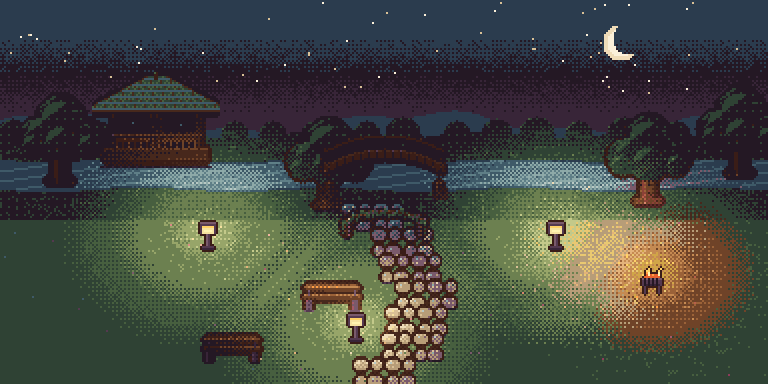
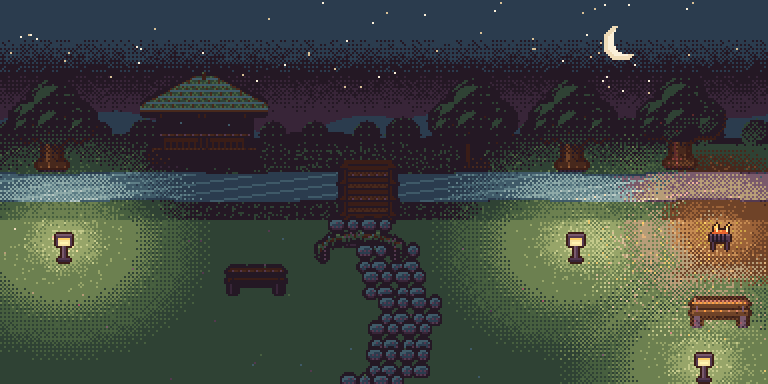
Poprawki ukladu scen: most przez strumien, sad i pole, brak nakladania
Claude-Session: https://claude.ai/code/session_0135h6bTXzjAgeLjpLoaFjGV

diff --git a/tools/art/world/park_bg.py b/tools/art/world/park_bg.py
@@ -12,8 +12,11 @@ from garden import blob, MOSS
 from garden_bg import SKY, _break
 
 W, HT, HORIZON = 384, 192, 70
-LAMPS = [(96, HORIZON + 40), (270, HORIZON + 40), (170, HORIZON + 86)]     # lewy-gorny rog lamp_post 16x16
-BRAZIERS = [(318, HORIZON + 62)]
+STREAM = (HORIZON + 16, HORIZON + 30)                                       # gorny i dolny brzeg wody
+LAMPS = [(24, HORIZON + 46), (280, HORIZON + 46), (344, HORIZON + 106)]     # lewy-gorny rog lamp_post 16x16
+BRAZIERS = [(352, HORIZON + 40)]
+BRIDGE = (168, STREAM[0] - 6)                                                 # poklad przecina strumien
+PLACED = []
 
 
 def _img(rel):
@@ -70,35 +73,36 @@ def world(extra=()):
             if r.random() < .09: c = "moss.2" if c == "moss.1" else "moss.3"
             H.put(im, x, y, c)
     H.break_checkers(im)
-    # strumien
-    for y in range(HORIZON + 10, HORIZON + 26):
+    for y in range(STREAM[0], STREAM[1] + 1):                                  # strumien
         for x in range(W):
             off = int(2 * math.sin(x / 15.0))
-            if HORIZON + 10 + off <= y <= HORIZON + 24 + off:
-                edge = y in (HORIZON + 10 + off, HORIZON + 24 + off)
+            if STREAM[0] + off <= y <= STREAM[1] + off:
+                edge = y in (STREAM[0] + off, STREAM[1] + off)
                 H.put(im, x, y, "dusk.1" if edge else ("dusk.3" if (x // 7 + y) % 5 else "dusk.4"))
-    # altana na dalekim brzegu, drzewa
-    im.alpha_composite(_img("park/gazebo.png"), (46, HORIZON - 34))
-    for x, y in ((6, HORIZON - 24), (346, HORIZON - 28), (300, HORIZON - 14), (140, HORIZON - 12)):
-        im.alpha_composite(_img("park/tree_big.png"), (x, y))
-    im.alpha_composite(_img("park/bridge_wood.png"), (160, HORIZON - 2))
-    # sciezka z kamieni od mostu w dol
-    pc = _img("park/path_cobble.png")
-    for k, y in enumerate(range(HORIZON + 30, HT - 4, 13)):
-        x = 186 + int(24 * math.sin(k / 2.1))
+    PLACED.clear()
+    def put(name, x, y, rel=None):
+        i = _img(rel or f"park/{name}.png"); PLACED.append((name, x, y, i)); im.alpha_composite(i, (x, y))
+    bank = STREAM[0] - 2                                                       # drzewa i altana stoja na dalekim brzegu
+    put("gazebo", 70, bank - 48)
+    for x in (2, 212, 262, 316): put("tree_big", x, bank - 48 + (x % 5))
+    put("bridge_wood", *BRIDGE)
+    pc = _img("park/path_cobble.png")                                          # sciezka od mostu w dol
+    for k, y in enumerate(range(STREAM[1] + 8, HT - 4, 13)):
+        x = 180 + int(22 * math.sin(k / 2.1))
         for dx in (-8, 8): im.alpha_composite(pc, (x + dx - 8 + (k % 2) * 4, y))
-    for name, x, y in (("flower_arch", 168, HORIZON + 34), ("bench_park", 150, HORIZON + 70), ("bench_park", 100, HORIZON + 96)):
-        im.alpha_composite(_img(f"park/{name}.png"), (x, y))
+    put("flower_arch", 156, STREAM[1] + 16)
+    put("bench_park", 112, HORIZON + 62); put("bench_park", 344, HORIZON + 78)
     for _ in range(48):                                                         # drobne kwiaty
-        x, y = r.randint(0, W - 1), r.randint(HORIZON + 40, HT - 3)
+        x, y = r.randint(0, W - 1), r.randint(STREAM[1] + 8, HT - 3)
         H.put(im, x, y, r.choice(["rose.1", "hay.2", "linen.2"])); H.put(im, x, y + 1, "moss.3")
     for rel, x, y in extra:
-        im.alpha_composite(_img(rel), (x, y))
+        put(Path(rel).stem, x, y, rel)
     return im
 
 
 def build(tod, extra=(), pigs=()):
     wim = world(extra)
+    for n, (x, y) in [("lamp_post", p) for p in LAMPS] + [("brazier", p) for p in BRAZIERS]: PLACED.append((n, x, y, _img("park/lamp_post.png")))
     lights = []
     if tod in ("evening", "night"):
         lights = [("lamp_street", x + 8, y + 5) for x, y in LAMPS] + [("brazier", x + 8, y + 4) for x, y in BRAZIERS]

diff --git a/tools/art/world/farm_bg.py b/tools/art/world/farm_bg.py
@@ -51,19 +51,21 @@ def world():
             if r.random() < .09: c = "moss.2" if c == "moss.1" else "moss.3"
             H.put(im, x, y, c)
     H.break_checkers(im)
-    for yy in range(HORIZON + 22, HT - 6, 1):                                     # pole: ziemia pod grzadki
-        pass
-    soil = _img("farm/farm.png").crop((160, 64, 176, 80))
-    for ty in range(HORIZON + 22, HT - 8, 16):
-        for tx in range(24, 232, 16):
-            im.alpha_composite(soil, (tx, ty))
+    meta = json.loads((H.WORLD_DIR / "farm/farm.json").read_text(encoding="utf-8"))["frames"]
+    sheet = _img("farm/farm.png")
+    def fr(name, i):
+        x, y, w, h = meta[name][i]; return sheet.crop((x, y, x + w, y + h))
     fence = _img("farm/fence_farm.png")
     for x in range(0, W, 16): im.alpha_composite(fence, (x, HORIZON + 6))
     im.alpha_composite(_img("farm/barn_hay.png"), (176, HORIZON - 34))
-    t = _img("garden/tree_small.png") if (H.WORLD_DIR / "garden/tree_small.png").exists() else None
-    from garden import tree_small
-    for x, y in ((6, HORIZON - 22), (36, HORIZON - 16), (140, HORIZON - 18)):
-        im.alpha_composite(tree_small(), (x, y))
+    # sad: dwa rzedy drzewek owocowych na trawie (lewa czesc), z przerwa na sciezke
+    for row, y in enumerate((HORIZON + 22, HORIZON + 54)):
+        for k, name in enumerate(("tree_apple", "tree_strawberry", "tree_apple", "tree_strawberry") if row == 0 else ("tree_strawberry", "tree_apple", "tree_strawberry", "tree_apple")):
+            im.alpha_composite(fr(name, 2), (12 + k * 24, y))
+    # pole: rzedy grzadek z przerwami na trawe (prawa czesc)
+    for row, ty in enumerate((HORIZON + 24, HORIZON + 46, HORIZON + 68)):
+        for tx in range(124, 244, 16):
+            im.alpha_composite(fr("bed_wet" if (row + tx // 16) % 3 == 0 else "bed_empty", 0), (tx, ty))
     for _ in range(30):
         x, y = r.randint(0, W - 1), r.randint(HORIZON + 24, HT - 3)
         if im.getpixel((x, y))[:3] in H.RAMPS["moss"]: H.put(im, x, y, r.choice(["hay.2", "linen.2"]))

diff --git a/tools/art/world/park_a.py b/tools/art/world/park_a.py
@@ -97,19 +97,17 @@ A1 = {"tree_big": tree_big, "gazebo": gazebo, "flower_arch": flower_arch, "pond_
 
 
 def bridge_wood():
-    im = H.canvas(64, 32)
-    for x in range(2, 62):
-        top = 14 - int(8 * (1 - ((x - 32) / 30.0) ** 2))
-        H.vline(im, x, top, top + 3, "wood.2" if x % 4 else "wood.1")
-        H.put(im, x, top, "wood.3"); H.put(im, x, top + 4, "wood.0")
-    for x in range(2, 62, 6):
-        top = 14 - int(8 * (1 - ((x - 32) / 30.0) ** 2))
-        H.vline(im, x, top - 7, top - 1, "wood.1"); H.put(im, x, top - 8, "wood.3")
-    for x in range(2, 62):
-        top = 14 - int(8 * (1 - ((x - 32) / 30.0) ** 2))
-        H.put(im, x, top - 7, "wood.2"); H.put(im, x, top - 6, "wood.1")
-    for x in (3, 58): H.rrect(im, x, 22, x + 2, 30, 1, WD)                            # podpory
-    H.rect(im, 0, 28, 5, 31, "wood.1"); H.rect(im, 58, 28, 63, 31, "wood.1")
+    """32x32: mostek przez strumien (poprzecznie): poklad z desek, po bokach porecze z slupkami, rozszerzone wejscia."""
+    im = H.canvas(32, 32)
+    H.rect(im, 4, 0, 27, 3, "wood.2"); H.rect(im, 4, 28, 27, 31, "wood.2")           # wejscia
+    for y in range(2, 30):
+        c = "wood.2" if (y // 3) % 2 else "wood.3"
+        H.hline(im, 6, 25, y, c)
+        if y % 3 == 2: H.hline(im, 6, 25, y, "wood.1")
+    for x in (3, 4, 27, 28):
+        H.vline(im, x, 2, 29, "wood.1" if x in (3, 28) else "wood.2")
+    for y in (2, 10, 18, 26):
+        for x in (2, 27): H.rrect(im, x, y, x + 2, y + 3, 1, WD)
     return H.ground(H.outline(im), spread=1)
 
 

diff --git a/tools/art/world/layout_check.py b/tools/art/world/layout_check.py
@@ -1,0 +1,20 @@
+"""Kontrola ukladu scen: wykrywa nakladanie sie nieprzezroczystych pikseli przedmiotow (poza dozwolonymi parami)."""
+import numpy as np
+
+FLAT = {"path_cobble", "path_stone", "picnic_blanket", "soil", "pond_big"}      # plaskie, moga lezec pod innymi
+
+
+def overlaps(placed, allow=()):
+    """placed: lista (nazwa, x, y, Image RGBA). Zwraca [(a, b, liczba_pikseli)]."""
+    out = []
+    for i, (na, xa, ya, ia) in enumerate(placed):
+        aa = np.array(ia)[:, :, 3] > 0
+        for nb, xb, yb, ib in placed[i + 1:]:
+            if (na in FLAT and nb in FLAT) or na == nb and na in FLAT: continue
+            if {na, nb} in [set(p) for p in allow]: continue
+            ab = np.array(ib)[:, :, 3] > 0
+            x0, y0 = max(xa, xb), max(ya, yb); x1, y1 = min(xa + aa.shape[1], xb + ab.shape[1]), min(ya + aa.shape[0], yb + ab.shape[0])
+            if x1 <= x0 or y1 <= y0: continue
+            n = int((aa[y0 - ya:y1 - ya, x0 - xa:x1 - xa] & ab[y0 - yb:y1 - yb, x0 - xb:x1 - xb]).sum())
+            if n and not (na in FLAT or nb in FLAT): out.append((na, nb, n))
+    return out

diff --git a/tools/art/world/market_bg.py b/tools/art/world/market_bg.py
@@ -46,9 +46,9 @@ def world():
         for x in range(-8 + (k % 2) * 8, W, 16): im.alpha_composite(pc, (x, y))
     H.break_checkers(im)
     for name, x, y in STALLS: im.alpha_composite(_img(f"market/{name}.png"), (x, y))
-    im.alpha_composite(_img("market/order_board.png"), (62, HORIZON + 44))
-    for n, x in (("promo_1", 40), ("promo_2", 158), ("promo_3", 224)): im.alpha_composite(_img(f"market/{n}.png"), (x, HORIZON + 52 + (x % 3) * 6))
-    for n, x in (("poster_1", 4), ("poster_2", 134), ("poster_3", 118)): im.alpha_composite(_img(f"market/{n}.png"), (x, HORIZON + 60 + (x % 2) * 18))
+    im.alpha_composite(_img("market/order_board.png"), (64, HORIZON + 40))
+    for n, x in (("promo_1", 30), ("promo_2", 112), ("promo_3", 196)): im.alpha_composite(_img(f"market/{n}.png"), (x, HORIZON + 68))
+    for n, x in (("poster_2", 163), ("poster_3", 177), ("poster_1", 238)): im.alpha_composite(_img(f"market/{n}.png"), (x, HORIZON + 40))
     return im
 
 

diff --git a/tools/art/world/park_scene.py b/tools/art/world/park_scene.py
@@ -6,10 +6,9 @@ import handart as H
 import park_bg
 from PIL import Image
 
-EXTRA = [("park/fountain.png", 24, 116), ("park/statue_pig.png", 320, 92), ("park/pond_big.png", 226, 128),
-         ("park/picnic_blanket.png", 110, 120), ("park/tunnel_playground.png", 60, 90), ("park/bridge_wood.png", 0, 0)]
-EXTRA = EXTRA[:-1]
-PIGS = [("glen", 150, 124), ("kuki", 204, 134), ("racuch", 250, 126)]
+EXTRA = [("park/fountain.png", 30, 138), ("park/statue_pig.png", 300, 106), ("park/pond_big.png", 252, 146),
+         ("park/picnic_blanket.png", 96, 150), ("park/tunnel_playground.png", 60, 100)]
+PIGS = [("glen", 150, 130), ("kuki", 176, 140), ("racuch", 222, 96)]
 
 
 def build(out):

diff --git a/tools/art/world/garden_bg.py b/tools/art/world/garden_bg.py
@@ -93,7 +93,7 @@ def world(tod):
     # tunel z wierzby, drzewa, krzewy
     im.alpha_composite(home.willow_tunnel(), (24, HORIZON + 8))
     t1, t2 = tree_small(), tree_small()
-    im.alpha_composite(t1, (200, HORIZON - 20)); im.alpha_composite(t2, (234, HORIZON - 14))
+    im.alpha_composite(t1, (196, HORIZON - 30)); im.alpha_composite(t2, (232, HORIZON - 26))
     for name, x, y in (("bush_berry", 80, HORIZON + 14), ("hedge", 185, HORIZON + 14), ("hedge", 201, HORIZON + 14),
                        ("flowerbed_tulip", 8, HORIZON + 50), ("flowerbed_daisy", 200, HORIZON + 62),
                        ("bench_wood", 150, HORIZON + 40), ("bird_bath", 60, HORIZON + 58)):

diff --git a/docs/VISUAL_LOG.md b/docs/VISUAL_LOG.md
@@ -141,3 +141,9 @@ sofa_cosy (bochenek, brick, 4 warianty), fireplace (wył + 4 klatki wł), lamp_m
 - Raport: 161 z 161 ikon miało piksele poza paletą (13301 px). Wszystkie 0-160 sprowadzone do palety legendy (najbliższy kolor, ciemne -> kontur #3a1d17), indeksy bez zmian. Nowe 161-173: candle, bedroom, run, gate, tray, shop, house_plan, storage, swatch, wander, bond, rename, color_lock (wpisy w icons.json). Poza paletą: 0. Generator: tools/art/world/icons_a.py. Przegląd: docs/album/przebudowa/b10_ikony.png.
 - Uwaga: przemalowanie 0-160 jest automatyczne (kwantyzacja), nie ręczne; ręczne dopracowanie pojedynczych ikon w B13 jeśli trzeba.
 - Hand-off B13-5: nowe ikony 161-173 (nazwy wyżej).
+
+## Poprawki układu scen (po przeglądzie użytkownika)
+- Park: `bridge_wood` przerysowany jako most poprzeczny przez strumień (rozmiar 32x32, było 64x32 - hand-off B13-5: zmiana rozmiaru). Altana i drzewa stoją na dalekim brzegu, nie w wodzie; sciezka prowadzi od mostu; kosz z żarem odsunięty od fontanny i posągu; przegląd parku bez nakładania.
+- Farma: sad (drzewka owocowe) po lewej na trawie, pole z rzędami grządek po prawej (zamiast jednego bloku ziemi).
+- Ogród: drzewa za płotem, nie w płocie. Targ: plakaty i tabliczki bez nakładania na stragany.
+- Nowe narzędzie: tools/art/world/layout_check.py (wykrywa nakładanie nieprzezroczystych pikseli przedmiotów). Stosować przy każdym tle/scenie w B11-B13.
